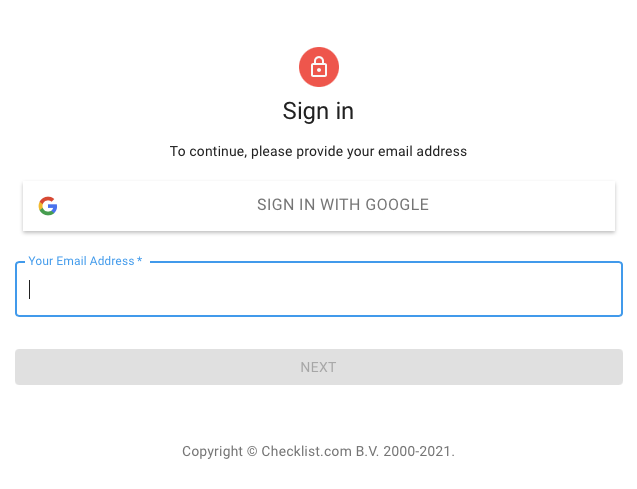
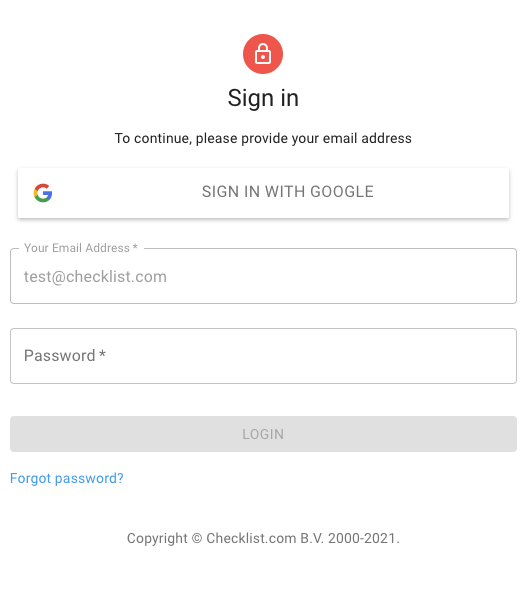
account page

diff --git a/docs/account.md b/docs/account.md
@@ -15,20 +15,22 @@ The account is free and requires a simple registration and email confirmation. O
 ## Sign In
 To sign in visit [https://app2.checklist.com](https://app2.checklist.com).
 
-![](/assets/images/account/login.png)
+![](/assets/images/account/signin.png)
 
 ### Google Sign In
-If you have a Google account, you can easily sign in by clicking on it and confirming Checklist on the following page. If this is your first visit, we will create a new organization and team and take you to the web app.
+If you have a Google account, you can easily sign in by clicking on the "Sign In With Google" button. If this is your first visit using Google, you will have to confirm Checklist and we will create a new organization and team (you will not have to confirm your account by email). In either case, you will end up in Checklist web app.
 
-If you previously registered with Checklist using an email address which is the same as your Google account, we will add the Google account to your Checklist account so you will be able to login using either option.
+If you previously registered with Checklist using an email address which is the same as your Google account, we will add the Google account to your Checklist account so that you will be able to login using either option (Google or email/password).
 
 ### Using Email
-If you wish to sign in using your email address, enter it in the Email field and hit enter or the Next button.
+If you wish to sign in using your email address, enter it in the Email field and hit enter or the "Next" button. If you already have an account, we will ask you to login. Otherwise, to register.
 
-#### Login
+#### Login to your Checklist Account
 If you already have a Checklist account, we will ask for your password. Enter it and hit enter or the Login button. If the credentials entered are correct, you will be directed to the web app.
 
-### Register
+![](/assets/images/account/login.png)
+
+#### Register
 If we do not recognize the email address, we will present you with a simple registration form. Please enter:
 * Your first name
 * Your last name
@@ -37,9 +39,19 @@ If we do not recognize the email address, we will present you with a simple regi
 
 We use names when emailing you, sending invites to new contacts or assigning tasks. Please ensure you use a name your contacts will recognize you by.
 
-Hit Register to receive a confirmation link via email. If you have not received our email, please check your spam folder. Once you click on the confirmation link, your account will be confirmed and you can login to your account at https://app2.checklist.com.
+![](/assets/images/account/login.png)
+
+Hit Register to receive a confirmation link via email. If you have not received our email, please check your spam folder (and add do-not-reply@checklist.com to your contacts). Once you click on the confirmation link, your account will be confirmed and you can login to your account at [https://app2.checklist.com](https://app2.checklist.com).
 
 ## Reset Password
-If you forgot your password, you can easily reset it by visiting https://app2.checklist.com/password-forgotten and entering your email address. You can also click the Forgot Password link on the login page after entering your email. In either case, we will send you a confirmation link in an email to reset your password. If you do not receive this email, please check your Spam folder.
+If you forgot your password, you can easily reset it by visiting [Password reset](https://app2.checklist.com/password-forgotten) page and entering your email address. You can also click the Forgot Password link on the login page after entering your email:
 
-Once you click on the link, enter a new password and hit the Reset button. You can the login with your email and the new password.
+![](/assets/images/account/login-forgot-password.png)
+
+In either case, we will email you a password reset link. If you do not receive this email, please check your Spam folder.
+
+Once you click on the link, enter a new password and hit the Reset button:
+
+![](/assets/images/account/reset-password.png)
+
+You can the login with your email and the new password.
